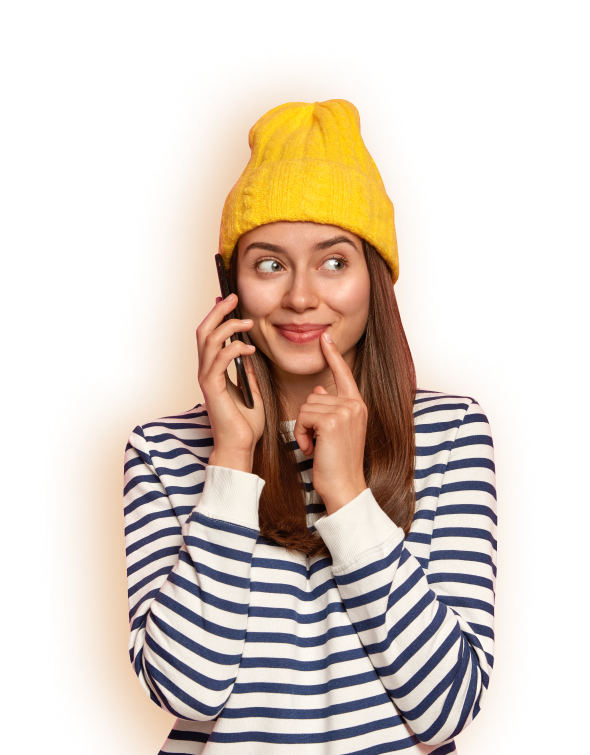
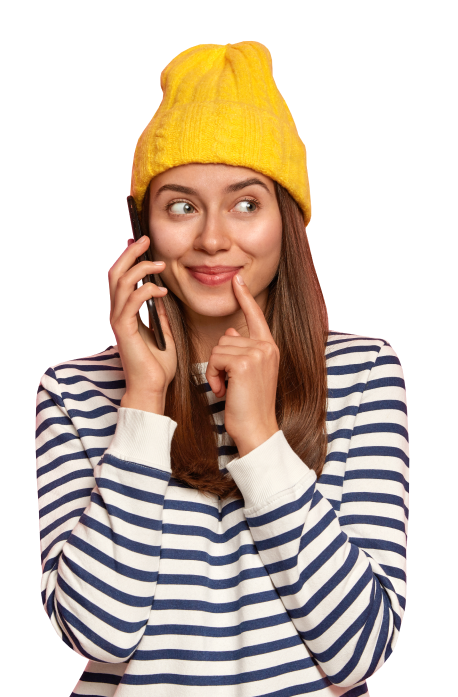
changes tablet version

diff --git a/fire-money/css/style.css b/fire-money/css/style.css
@@ -238,7 +238,7 @@ body {
   background-size: auto;
   position: absolute;
   bottom: -68px;
-  left: -381px;
+  left: -359px;
   z-index: 1;
   pointer-events: none;
 }
@@ -1180,7 +1180,7 @@ body {
 }
 
 .footer__personal-wrp {
-  max-width: 772px;
+  max-width: 767px;
   min-height: 86px;
   width: 100%;
   border: 1px solid #fff;
@@ -1448,8 +1448,9 @@ body {
   }
 
   .card-request__list {
-    gap: 32px;
+    gap: 0;
     margin: 0 0 43px;
+	justify-content: space-between;
   }
 
   .card-request__item,
@@ -1569,7 +1570,9 @@ body {
     background-repeat: no-repeat;
     background-position: bottom;
   }
-
+  .recieve-money__title {
+    text-align: center;
+	}
   .recieve-money__discription-wrp {
     margin: 0 auto;
     text-align: center;
@@ -1615,7 +1618,8 @@ body {
     align-items: normal;
   }
   .footer-card {
-    width: 768px;
+    max-width: 768px;
+	width: 100%;
     padding: 27px 0 35px 0;
     border-top: 1px solid rgba(255, 255, 255, 0.2);
     border-bottom: none;
@@ -1633,6 +1637,20 @@ body {
 
 /* ====ENDtablet-page-version==== */
 
+/* ====mobile-page-version==== */
+@media (max-width: 767px) {
+	.center {
+	  max-width: 360px;
+	}
+	/* ===top=== */
+	.header {
+		padding: 14px 0 0 0;
+		margin: 0 0 18px 0;
+	}
+	.header-nav__list {
+		display: none;
+	}
+}
 @keyframes a {
   0% {
     top: -25px;

diff --git a/fire-money/index.html b/fire-money/index.html
@@ -25,6 +25,9 @@
   <body>
     <div class="top-wrp">
       <div class="center">
+
+
+        
         <header class="header">
           <div class="header-logo">
             <a class="header-logo__link" href="#">Fire<span>Money</span></a>
